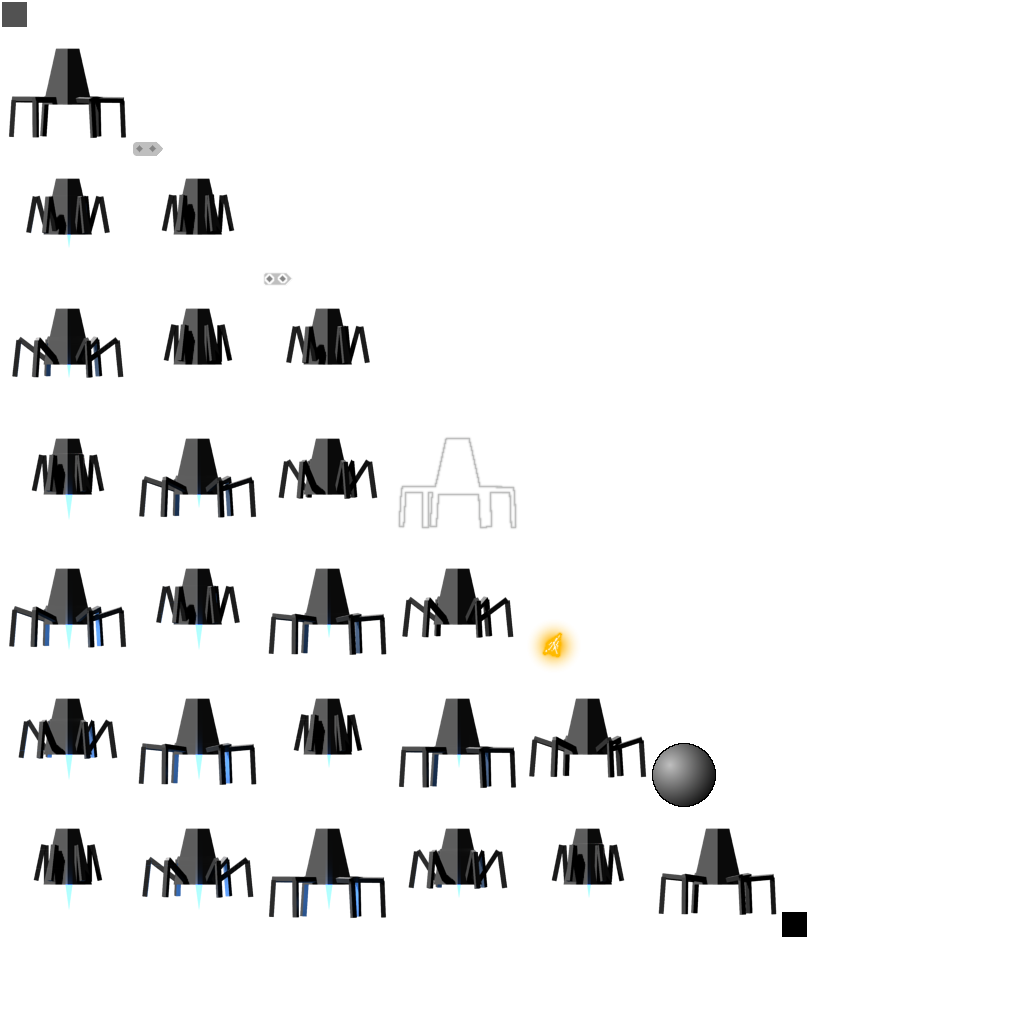
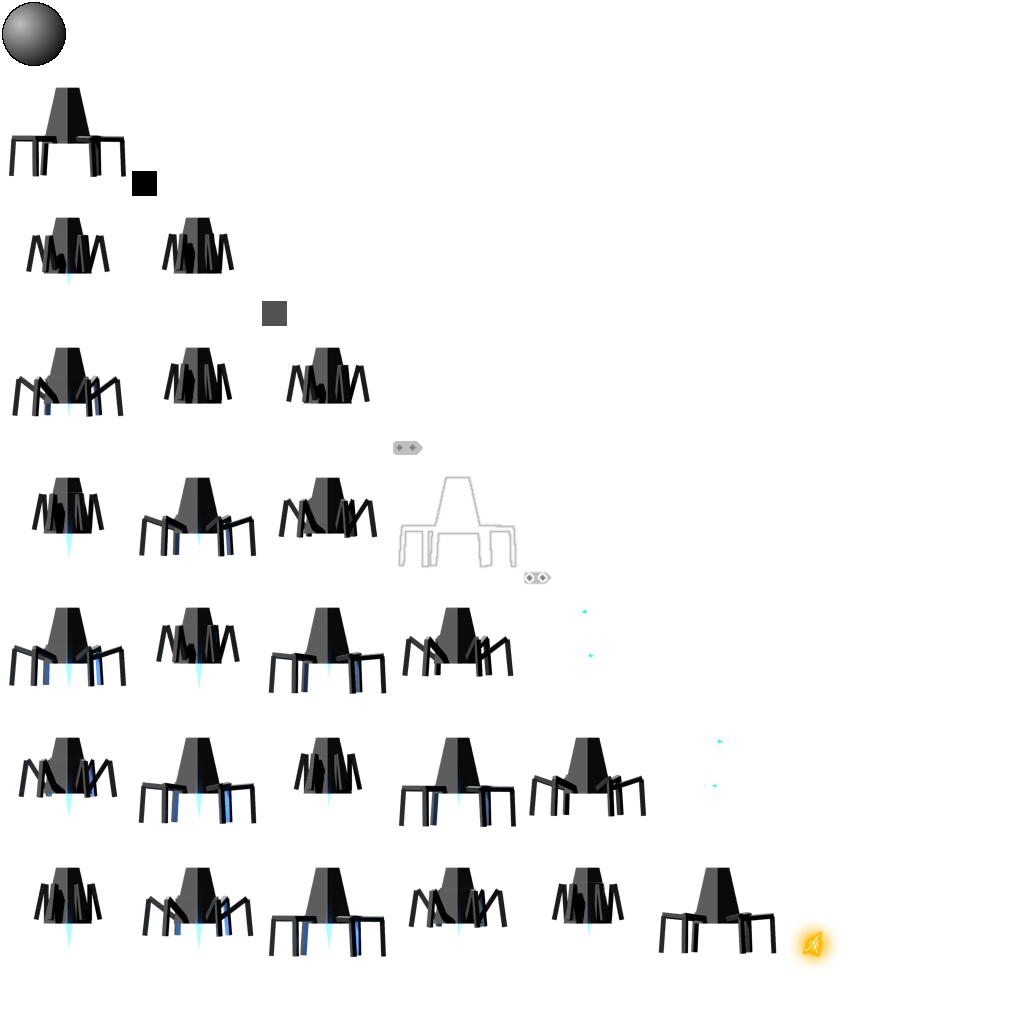
next

Changed region(s): [[0.0, 0.0, 0.8125, 0.9688]]

diff --git a/flameout/src/com/ironalloygames/flameout/Lander.java b/flameout/src/com/ironalloygames/flameout/Lander.java
@@ -77,6 +77,8 @@ public class Lander extends Actor {
 			graphics = Assets.landerEngineLow;
 		}
 
+
+
 		if(!thrownOffFragments && destroyed){
 			thrownOffFragments = true;
 
@@ -99,6 +101,20 @@ public class Lander extends Actor {
 					graphics.get(curLegStatus / 8), body.getPosition().x, body.getPosition().y,
 					0.5f, 0.5f, 1, 1, getHalfSize() * 2, getHalfSize() * 2, body.getAngle() * (180 / MathUtils.PI) - 90, false
 					);
+
+			if (actualThrusterPower.x > 0.1f){
+				state.batch.draw(
+						Assets.landerSpinCounterclockwise, body.getPosition().x, body.getPosition().y,
+						0.5f, 0.5f, 1, 1, getHalfSize() * 2, getHalfSize() * 2, body.getAngle() * (180 / MathUtils.PI) - 90, false
+						);
+			}
+
+			if (actualThrusterPower.x < -0.1f){
+				state.batch.draw(
+						Assets.landerSpinClockwise, body.getPosition().x, body.getPosition().y,
+						0.5f, 0.5f, 1, 1, getHalfSize() * 2, getHalfSize() * 2, body.getAngle() * (180 / MathUtils.PI) - 90, false
+						);
+			}
 
 			state.batch.draw(
 					Assets.landerOutline, ghost1Pos.x, ghost1Pos.y,
@@ -140,7 +156,7 @@ public class Lander extends Actor {
 
 	@Override
 	public void update() {
-		System.out.println(body.getPosition());
+		//System.out.println(body.getPosition());
 
 		if(body.getPosition().x < -10 || body.getPosition().x > 130) destroyed = true;
 

diff --git a/flameout/src/com/ironalloygames/flameout/Assets.java b/flameout/src/com/ironalloygames/flameout/Assets.java
@@ -46,6 +46,9 @@ public class Assets {
 
 	public static Sound explosionSound;
 
+	public static Sprite landerSpinClockwise;
+	public static Sprite landerSpinCounterclockwise;
+
 	public static void load(){
 		atlas = new TextureAtlas(Gdx.files.internal("atlas.atlas"));
 
@@ -91,6 +94,9 @@ public class Assets {
 
 		launchSound = Gdx.audio.newSound(Gdx.files.internal("launch.ogg"));
 		explosionSound = Gdx.audio.newSound(Gdx.files.internal("explosion.wav"));
+
+		landerSpinClockwise = atlas.createSprite("lander_spin_clockwise");
+		landerSpinCounterclockwise = atlas.createSprite("lander_spin_counterclockwise");
 
 		System.out.println("Load done");
 	}

diff --git a/flameout/src/com/ironalloygames/flameout/FlameoutGame.java b/flameout/src/com/ironalloygames/flameout/FlameoutGame.java
@@ -44,9 +44,9 @@ public class FlameoutGame implements ApplicationListener {
 
 		Assets.load();
 
-		//setGameState(new InGameState());
+		setGameState(new InGameState());
 		//setGameState(new NewsState(NewsStory.Tag.PERFECT));
-		setGameState(new TitleScreen());
+		//setGameState(new TitleScreen());
 		//setGameState(new DescentScreen());
 
 		msElapsed = System.currentTimeMillis();
